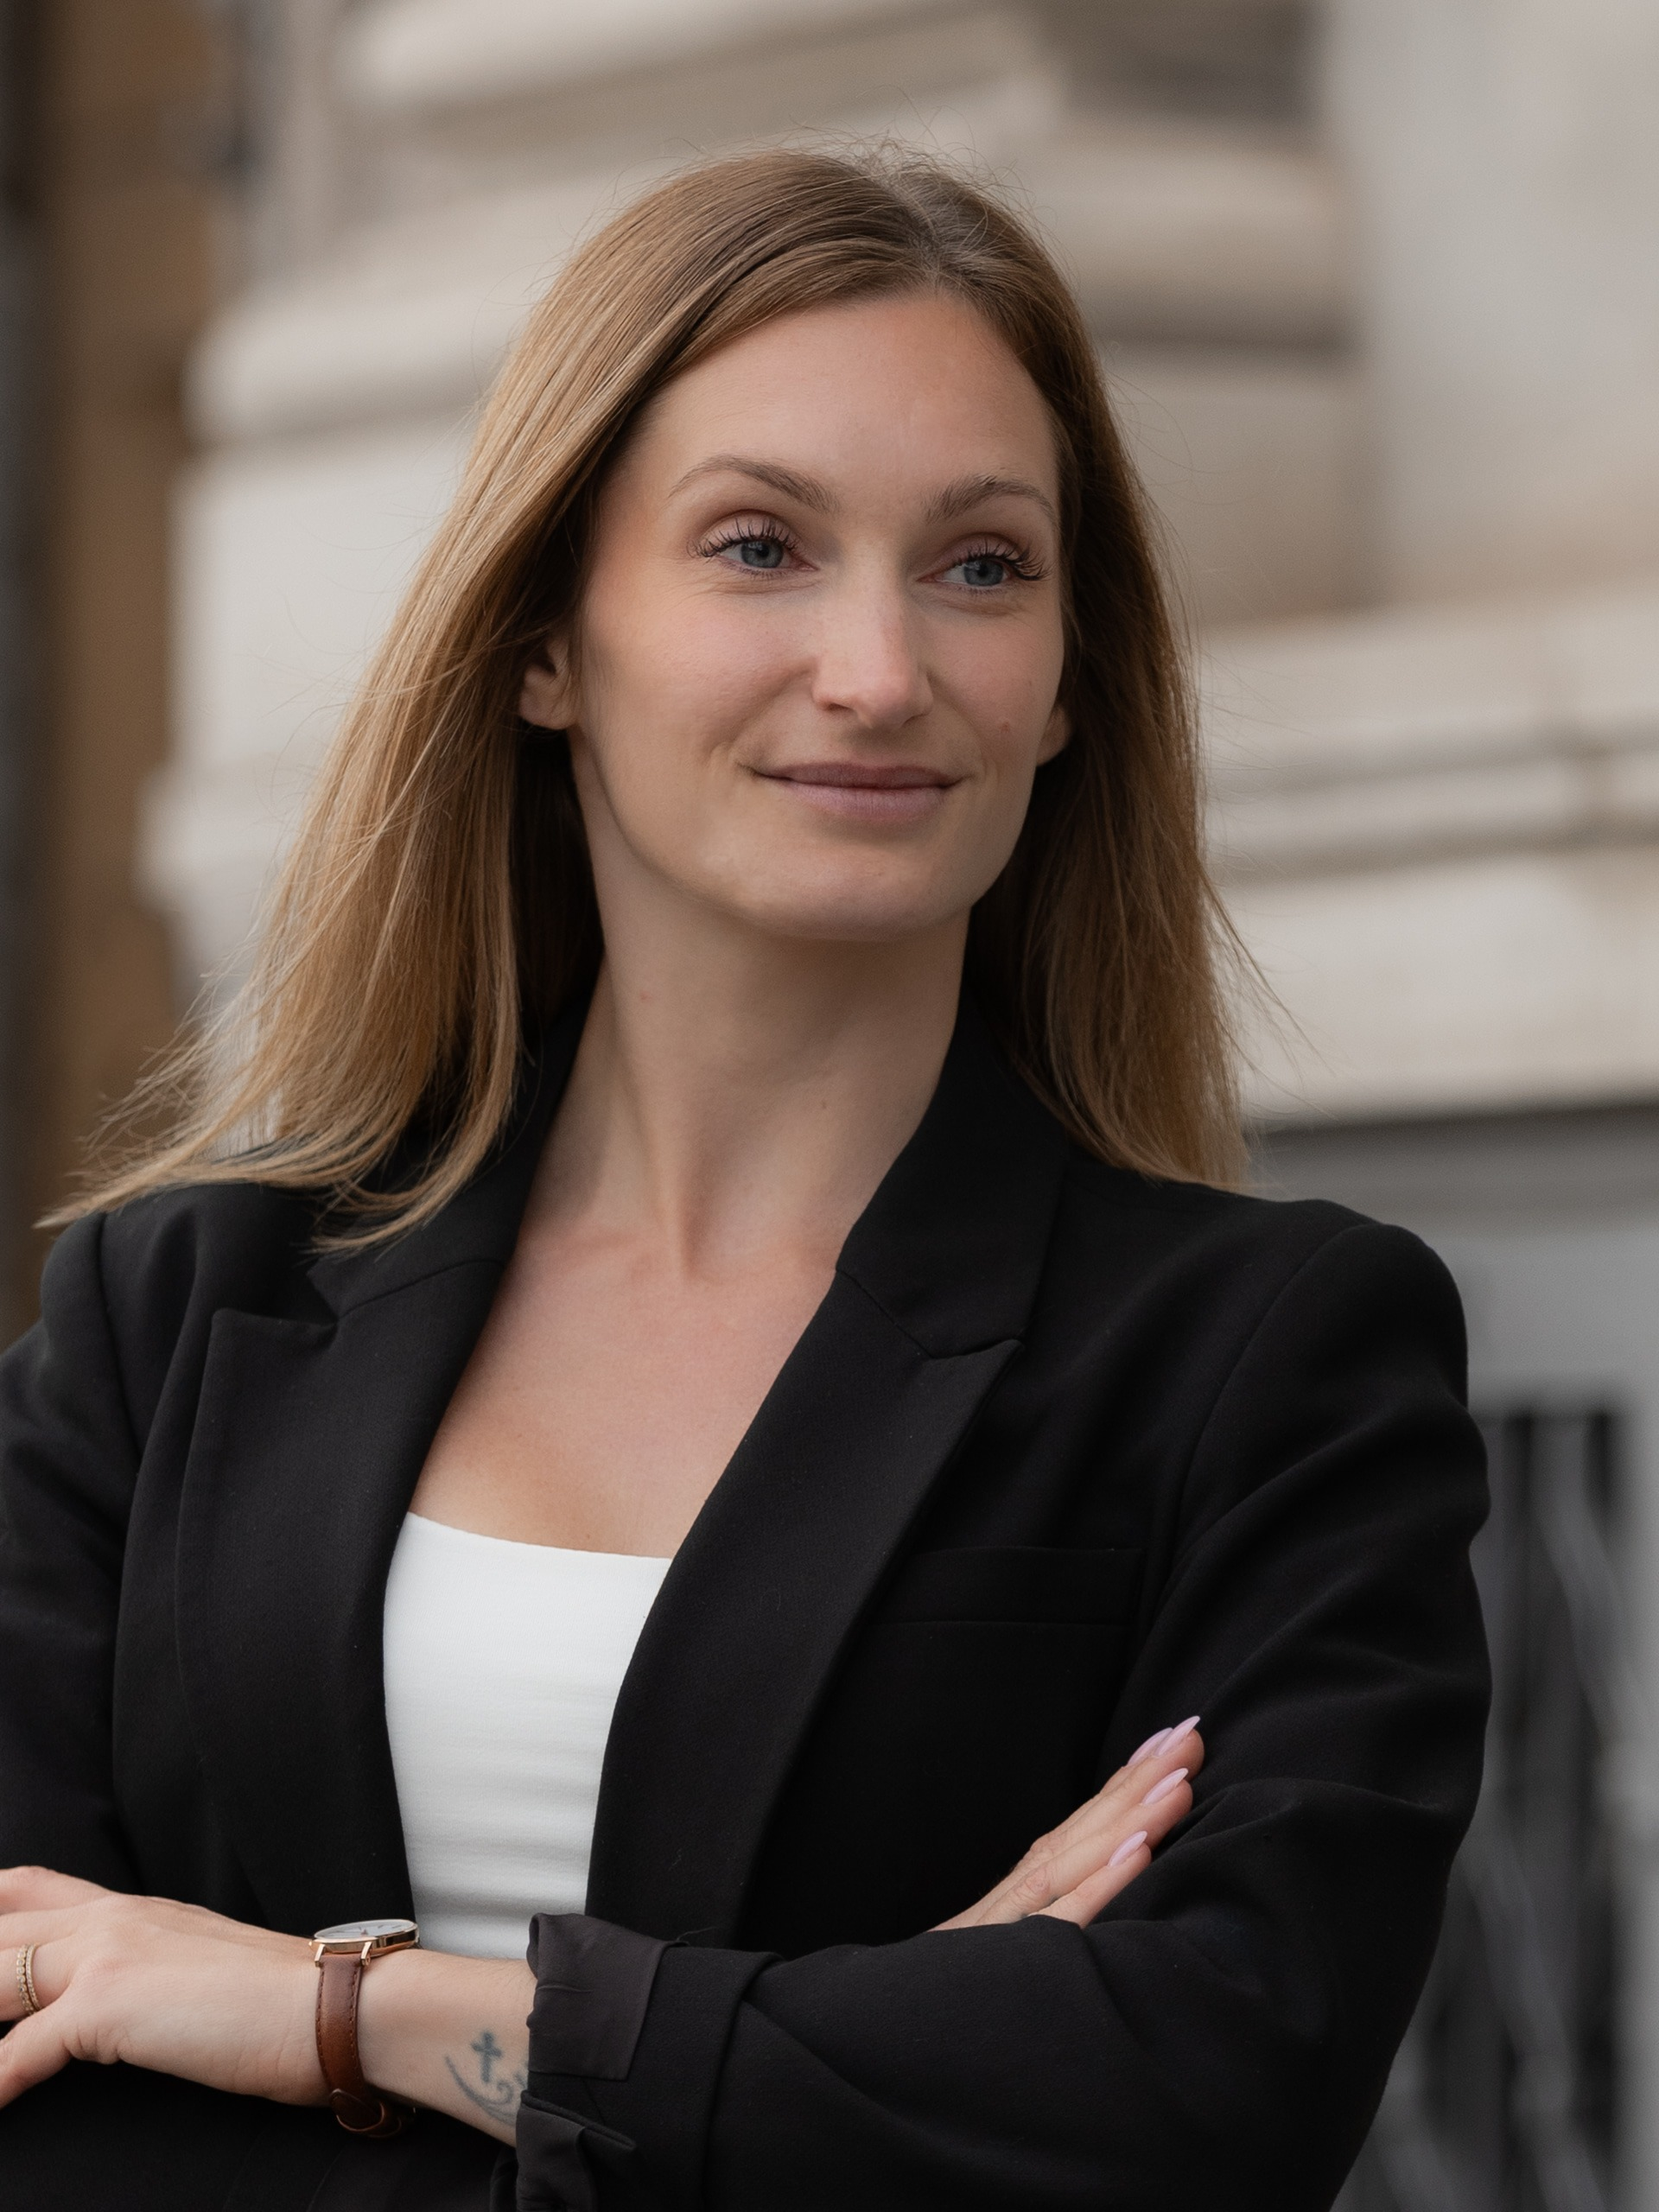
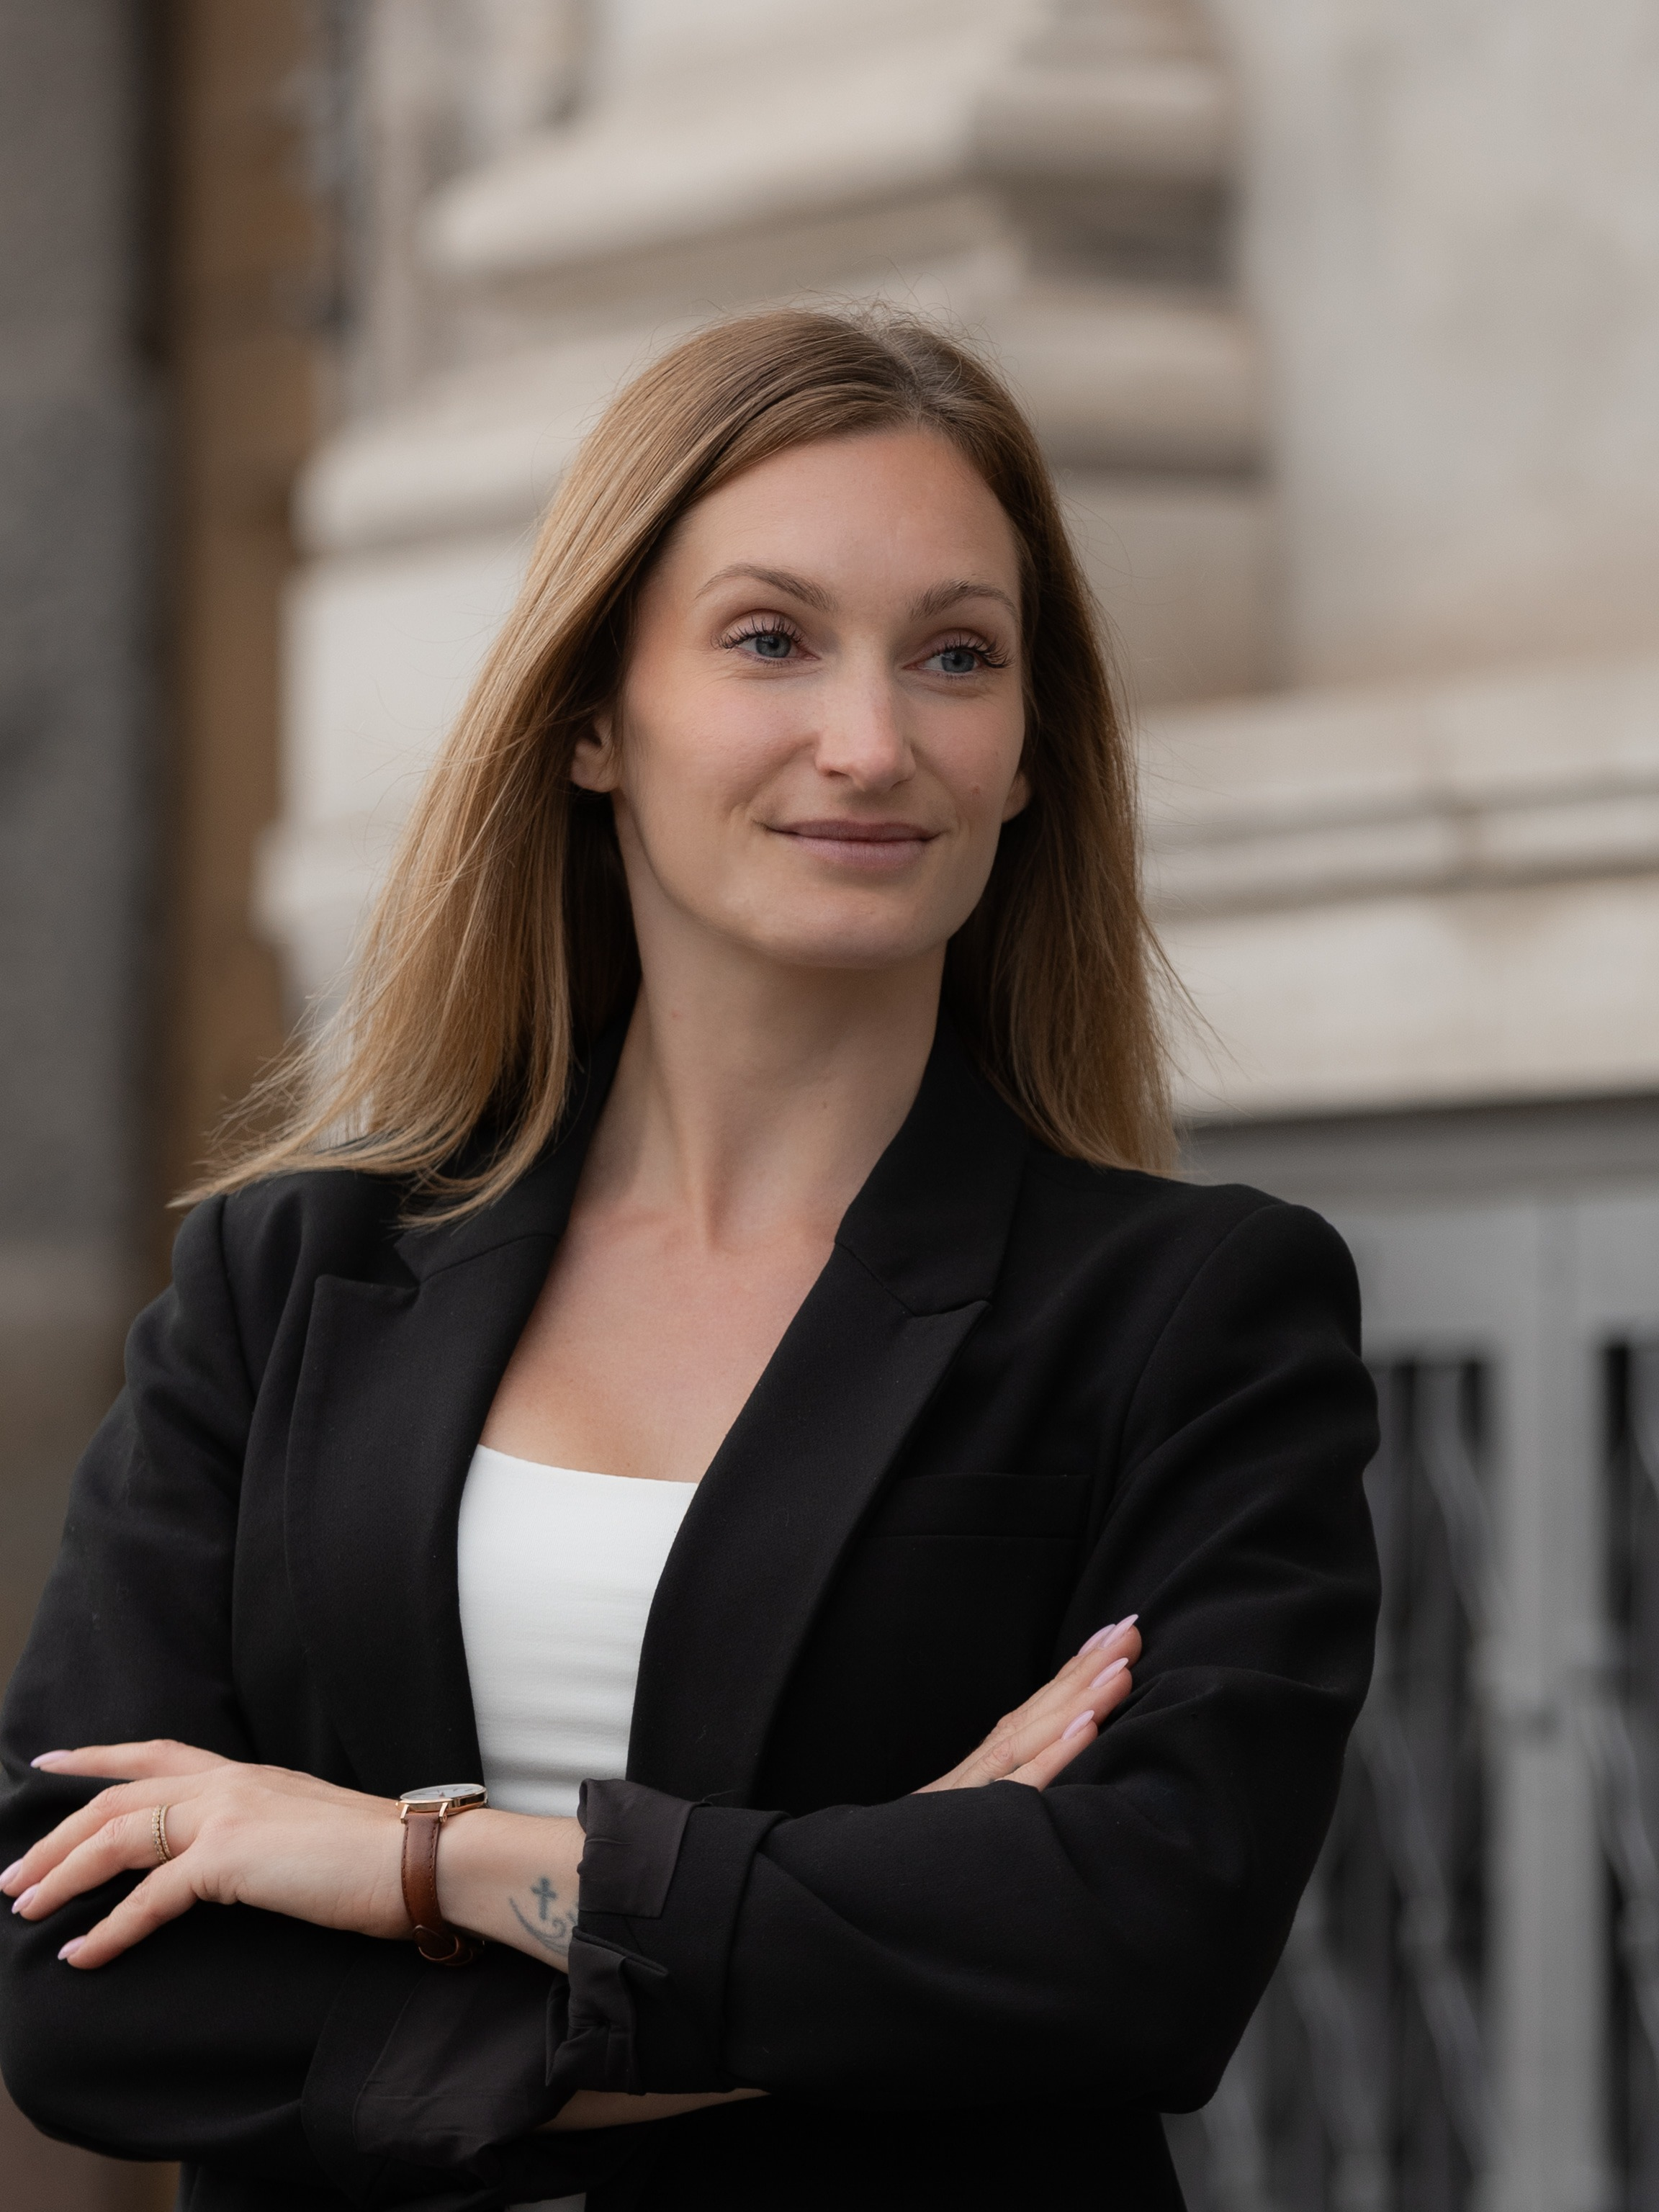
Add files via upload

diff --git a/app/blog/content-strategi/page.tsx b/app/blog/content-strategi/page.tsx
@@ -25,7 +25,7 @@ export default function ContentStrategiPost() {
             Sådan finder du din content strategi
           </h1>
 
-          <div className="relative mx-auto mt-10 aspect-[4/3] w-full max-w-2xl overflow-hidden rounded-5xl bg-sand">
+          <div className="relative mx-auto mt-10 aspect-[3/4] w-full max-w-md overflow-hidden rounded-5xl bg-sand">
             <Image
               src="/images/blog/content-strategi-hero.jpg"
               alt="Sådan finder du din content strategi"